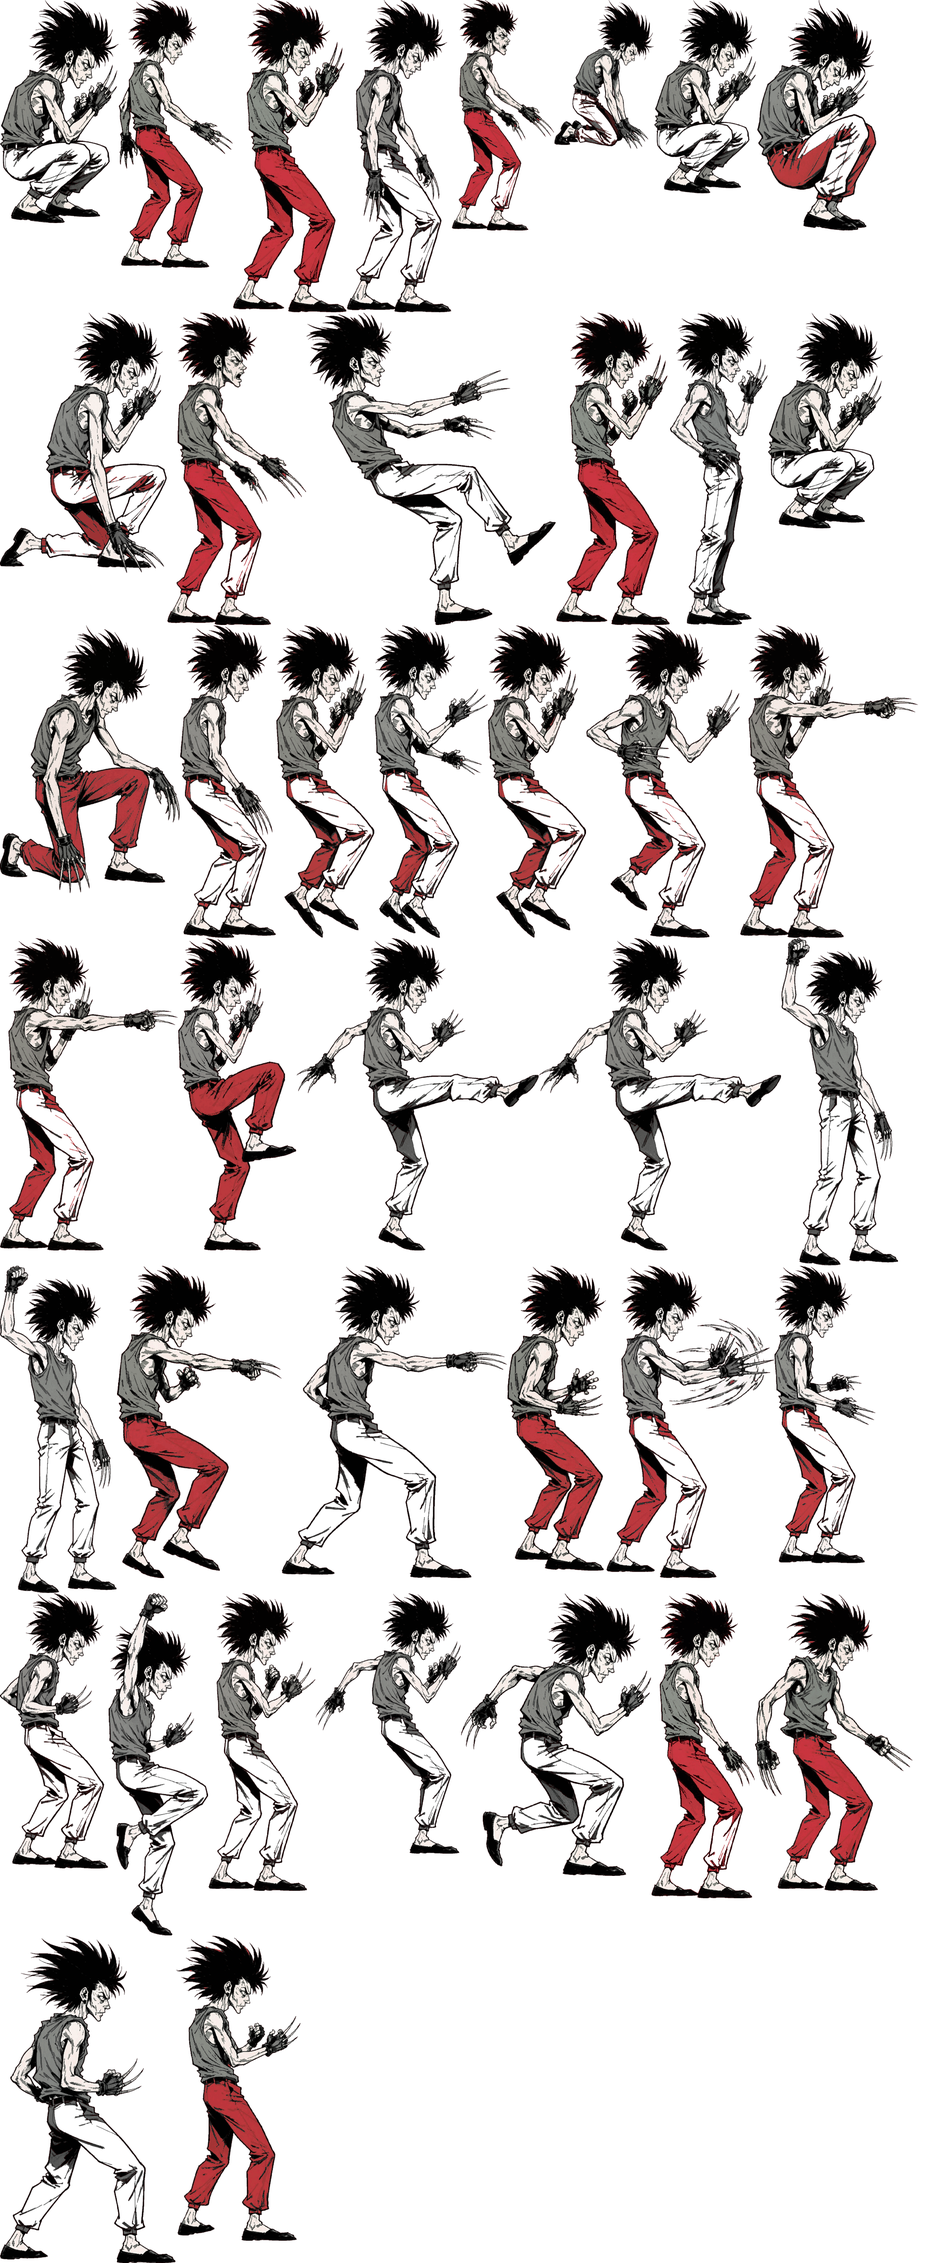
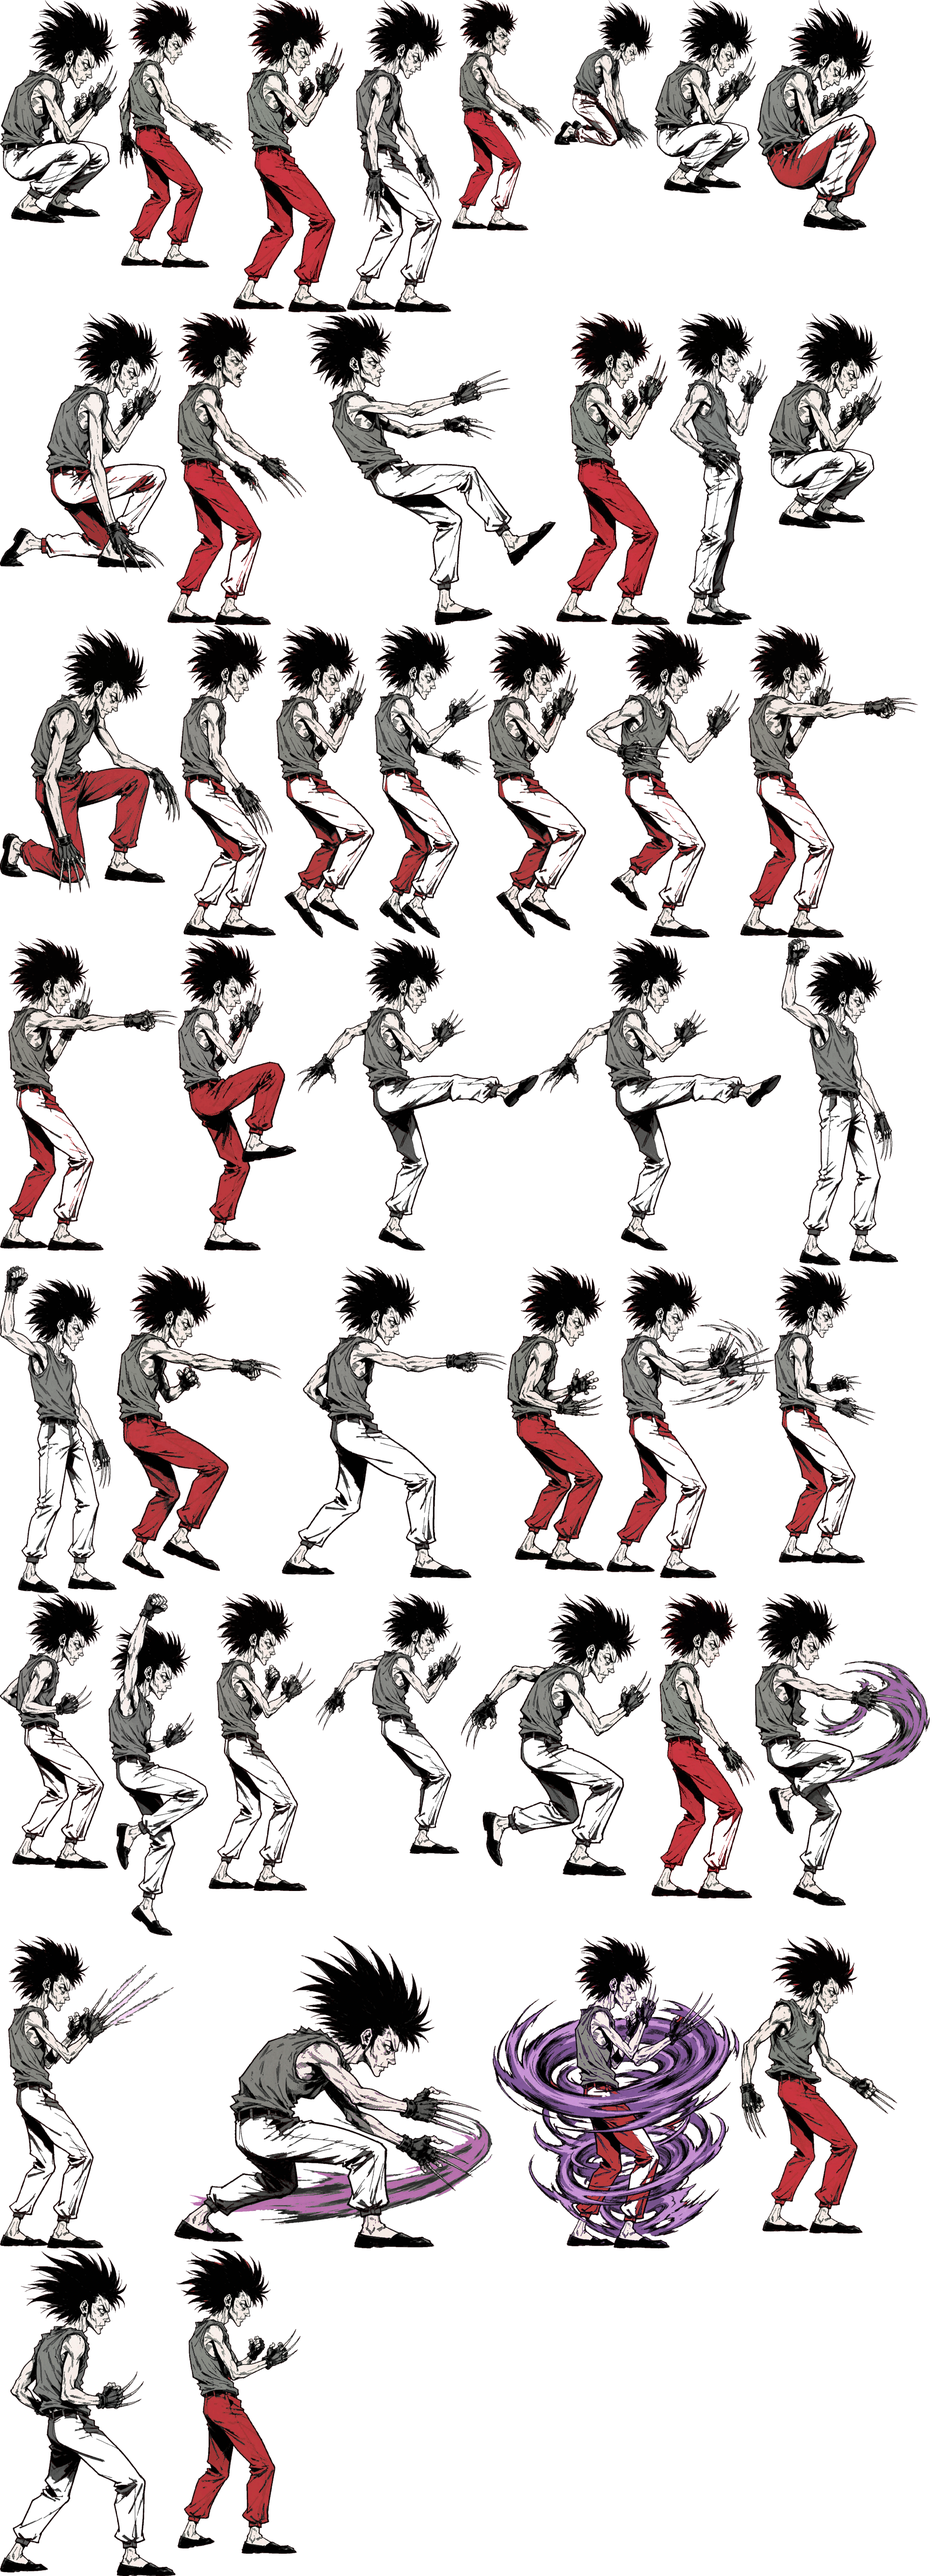
批次 20261027-0807 · [T267] 动作专属化 18/27：Kim + Choi 各 4 招
改了什么：
- gen-poses 加 8 条（Kim：青白弧线踢/缠气流飞踢/空中连踢残像/青白火焰状气劲；
  Choi：紫色旋风/三道紫光刃/贴地紫残影/紫色龙卷包裹）
- build-sheet 加 kimspecial1-3 + kimsuper、choispecial1-3 + choisuper，
  并更新 EXCLUSIVE_OWNER
- poses.ts 加 8 个兜底（key = anim 名）
- kim.ts / choi.ts 各改 5 处

踩到一个大小写坑：build-sheet 里写成 choiSpecial1（大写 S），数据里是 choispecial1
（小写 s）——两者必须完全一致，否则打包出来的动画名对不上 move.anim。已统一小写。

风格区分：Kim＝白道服、腿法为主、青白气流；Choi＝瘦小、爪击、紫色旋风。

怎么验证的：打包两个角色都检查了错误（grep -qi error），失败=0；art:check 通过；
npm run check 995 条全绿

diff --git a/src/data/chars/choi.ts b/src/data/chars/choi.ts
@@ -27,7 +27,7 @@ export const CHOI: CharDef = {
 
     // ---------------------------------------------------------------- 必杀技
     // 旋風斬：转着往前冲（多段）
-    '236A': mv('236A', '旋風斬', 'kickLight', 48, 'special', [
+    '236A': mv('236A', '旋風斬', 'choispecial1', 48, 'special', [
       hit('h1', { box: { x: 8, y: -60, w: 30, h: 30 }, frames: [8, 11], damage: 26, hitStun: 14, hitstop: 6, meterGain: 4 }),
       hit('h2', { box: { x: 8, y: -60, w: 30, h: 30 }, frames: [14, 17], damage: 24, hitStun: 14, hitstop: 6, meterGain: 4 }),
       hit('h3', { box: { x: 8, y: -62, w: 32, h: 32 }, frames: [20, 23], damage: 24, hitStun: 14, hitstop: 6, meterGain: 4 }),
@@ -43,7 +43,7 @@ export const CHOI: CharDef = {
     ], { input: { motion: '236', buttons: ['A'] }, travel: 82, travelFrames: 28 }),
 
     // 飛翔空裂斬：对空上冲（爪）
-    '623A': mv('623A', '飛翔空裂斬', 'kickLight', 40, 'special', [
+    '623A': mv('623A', '飛翔空裂斬', 'choispecial2', 40, 'special', [
       hit('h1', { box: { x: 4, y: -78, w: 26, h: 46 }, frames: [4, 8], damage: 28, hitStun: 16, hitstop: 6, meterGain: 5 }),
       hit('h2', {
         box: { x: 4, y: -84, w: 28, h: 56 },
@@ -57,7 +57,7 @@ export const CHOI: CharDef = {
     ], { input: { motion: '623', buttons: ['A'] }, invuln: [{ frames: [1, 5], kind: 'full' }] }),
 
     // 疾風斬：低空突进（下段）
-    '214A': mv('214A', '疾風斬', 'crouchKick', 38, 'special', [
+    '214A': mv('214A', '疾風斬', 'choispecial3', 38, 'special', [
       hit('h1', {
         box: { x: 10, y: -22, w: 32, h: 18 },
         frames: [10, 14],
@@ -73,7 +73,7 @@ export const CHOI: CharDef = {
     ], { input: { motion: '214', buttons: ['A'] }, travel: 72, travelFrames: 16 }),
 
     // ---------------------------------------------------------------- 超必杀
-    '236236A': mv('236236A', '真！超絶竜巻斬', 'special', 70, 'super', [
+    '236236A': mv('236236A', '真！超絶竜巻斬', 'choisuper', 70, 'super', [
       hit('h1', { box: { x: 8, y: -62, w: 32, h: 34 }, frames: [8, 11], damage: 28, hitStun: 15, hitstop: 6, meterGain: 0 }),
       hit('h2', { box: { x: 8, y: -62, w: 32, h: 34 }, frames: [15, 18], damage: 26, hitStun: 15, hitstop: 6, meterGain: 0 }),
       hit('h3', { box: { x: 8, y: -66, w: 34, h: 38 }, frames: [22, 25], damage: 26, hitStun: 15, hitstop: 6, meterGain: 0 }),
@@ -89,7 +89,7 @@ export const CHOI: CharDef = {
       }),
     ], { input: { motion: '236236', buttons: ['A'] }, meterCost: 50, travel: 66, travelFrames: 16 }),
 
-    '236236AC': mv('236236AC', '真！超絶竜巻斬 MAX', 'special', 82, 'super', [
+    '236236AC': mv('236236AC', '真！超絶竜巻斬 MAX', 'choisuper', 82, 'super', [
       hit('h1', { box: { x: 8, y: -62, w: 34, h: 36 }, frames: [6, 9], damage: 26, hitStun: 15, hitstop: 5, meterGain: 0 }),
       hit('h2', { box: { x: 8, y: -62, w: 34, h: 36 }, frames: [12, 15], damage: 24, hitStun: 15, hitstop: 5, meterGain: 0 }),
       hit('h3', { box: { x: 8, y: -66, w: 36, h: 40 }, frames: [18, 21], damage: 24, hitStun: 15, hitstop: 5, meterGain: 0 }),

diff --git a/src/data/chars/kim.ts b/src/data/chars/kim.ts
@@ -22,7 +22,7 @@ export const KIM: CharDef = {
 
     // ---------------------------------------------------------------- 必杀技
     // 半月斬：突进横踢
-    '236B': mv('236B', '半月斬', 'kickHeavy', 38, 'special', [
+    '236B': mv('236B', '半月斬', 'kimspecial1', 38, 'special', [
       hit('h1', {
         box: { x: 14, y: -64, w: 36, h: 20 },
         frames: [10, 14],
@@ -36,7 +36,7 @@ export const KIM: CharDef = {
     ], { input: { motion: '236', buttons: ['B'] }, travel: 66, travelFrames: 15 }),
 
     // 飛燕斬：跳起下劈（中段）
-    '214B': mv('214B', '飛燕斬', 'kickHeavy', 40, 'special', [
+    '214B': mv('214B', '飛燕斬', 'kimspecial2', 40, 'special', [
       hit('h1', {
         box: { x: 10, y: -66, w: 32, h: 26 },
         frames: [13, 17],
@@ -52,7 +52,7 @@ export const KIM: CharDef = {
     ], { input: { motion: '214', buttons: ['B'] } }),
 
     // 空連脚：对空连踢
-    '623B': mv('623B', '空連脚', 'kickHeavy', 42, 'special', [
+    '623B': mv('623B', '空連脚', 'kimspecial3', 42, 'special', [
       hit('h1', { box: { x: 6, y: -88, w: 28, h: 40 }, frames: [4, 8], damage: 30, hitStun: 16, hitstop: 6, meterGain: 5 }),
       hit('h2', { box: { x: 6, y: -92, w: 30, h: 50 }, frames: [10, 14], damage: 30, hitStun: 16, hitstop: 6, meterGain: 5 }),
       hit('h3', {
@@ -67,7 +67,7 @@ export const KIM: CharDef = {
     ], { input: { motion: '623', buttons: ['B'] }, invuln: [{ frames: [1, 5], kind: 'full' }] }),
 
     // ---------------------------------------------------------------- 超必杀
-    '236236B': mv('236236B', '鳳凰脚', 'special', 66, 'super', [
+    '236236B': mv('236236B', '鳳凰脚', 'kimsuper', 66, 'super', [
       hit('h1', { box: { x: 10, y: -72, w: 34, h: 30 }, frames: [8, 12], damage: 34, hitStun: 16, hitstop: 7, meterGain: 0 }),
       hit('h2', { box: { x: 10, y: -74, w: 36, h: 34 }, frames: [16, 20], damage: 32, hitStun: 16, hitstop: 7, meterGain: 0 }),
       hit('h3', { box: { x: 10, y: -76, w: 36, h: 40 }, frames: [24, 28], damage: 32, hitStun: 16, hitstop: 7, meterGain: 0 }),
@@ -83,7 +83,7 @@ export const KIM: CharDef = {
       }),
     ], { input: { motion: '236236', buttons: ['B'] }, meterCost: 50, travel: 50, travelFrames: 12 }),
 
-    '236236AC': mv('236236AC', '鳳凰脚 MAX', 'special', 78, 'super', [
+    '236236AC': mv('236236AC', '鳳凰脚 MAX', 'kimsuper', 78, 'super', [
       hit('h1', { box: { x: 10, y: -72, w: 36, h: 32 }, frames: [6, 9], damage: 30, hitStun: 16, hitstop: 6, meterGain: 0 }),
       hit('h2', { box: { x: 10, y: -74, w: 36, h: 36 }, frames: [13, 16], damage: 28, hitStun: 16, hitstop: 6, meterGain: 0 }),
       hit('h3', { box: { x: 10, y: -76, w: 38, h: 40 }, frames: [20, 23], damage: 28, hitStun: 16, hitstop: 6, meterGain: 0 }),

diff --git a/src/render/poses.ts b/src/render/poses.ts
@@ -628,6 +628,15 @@ export const POSE_LIBRARY: Record<string, Pose> = {
   chinspecial2: { frameDuration: 1, loop: false, exclusive: 'chin', frames: [f({ head: p(-6, -50), neck: p(-6, -44), hip: p(-4, -26), legFront: [p(14, -14), p(24, -6)], armBack: [p(-12, -34), p(-18, -28)] })] },
   chinspecial3: { frameDuration: 1, loop: false, exclusive: 'chin', frames: [f({ head: p(5, -58), neck: p(4, -50), hip: p(-2, -30), armFront: [p(12, -44), p(18, -36)], armBack: [p(-10, -46), p(-14, -40)] })] },
   chinsuper: { frameDuration: 1, loop: false, exclusive: 'chin', frames: [f({ head: p(3, -58), neck: p(3, -50), hip: p(0, -30), armFront: [p(18, -52), p(30, -48)], armBack: [p(-16, -52), p(-28, -48)] })] },
+  // Kim / Choi 专属必杀的兜底（key 与 anim 名一致）
+  kimspecial1: { frameDuration: 1, loop: false, exclusive: 'kim', frames: [f({ head: p(2, -66), neck: p(1, -56), hip: p(0, -36), legFront: [p(16, -62), p(22, -84)], legBack: [p(-6, -22), p(-6, -1)] })] },
+  kimspecial2: { frameDuration: 1, loop: false, exclusive: 'kim', frames: [f({ head: p(1, -74), neck: p(1, -64), hip: p(0, -41), legFront: [p(14, -58), p(18, -80)], legBack: [p(-8, -24), p(-8, -2)] })] },
+  kimspecial3: { frameDuration: 1, loop: false, exclusive: 'kim', frames: [f({ head: p(2, -70), neck: p(2, -60), hip: p(0, -40), legFront: [p(18, -50), p(28, -44)], legBack: [p(-10, -40), p(-14, -28)] })] },
+  kimsuper: { frameDuration: 1, loop: false, exclusive: 'kim', frames: [f({ head: p(3, -70), neck: p(2, -60), hip: p(0, -40), legFront: [p(22, -52), p(32, -46)], legBack: [p(-8, -26), p(-10, -8)] })] },
+  choispecial1: { frameDuration: 1, loop: false, exclusive: 'choi', frames: [f({ head: p(3, -64), neck: p(3, -54), hip: p(0, -34), armFront: [p(16, -54), p(26, -50)], armBack: [p(-12, -48), p(-20, -42)] })] },
+  choispecial2: { frameDuration: 1, loop: false, exclusive: 'choi', frames: [f({ head: p(1, -70), neck: p(1, -60), hip: p(0, -38), armFront: [p(14, -54), p(16, -72)], armBack: [p(-10, -50), p(-14, -42)] })] },
+  choispecial3: { frameDuration: 1, loop: false, exclusive: 'choi', frames: [f({ head: p(6, -52), neck: p(6, -44), hip: p(1, -26), armFront: [p(16, -38), p(28, -32)], armBack: [p(-10, -38), p(-18, -32)] })] },
+  choisuper: { frameDuration: 1, loop: false, exclusive: 'choi', frames: [f({ head: p(2, -62), neck: p(2, -52), hip: p(0, -32), armFront: [p(18, -52), p(30, -46)], armBack: [p(-16, -52), p(-28, -46)] })] },
   /** 升龙系：整个人向上冲，手臂上举 */
   specialUppercut: {
     frameDuration: 1,

diff --git a/docs/MOVE-PER-CHAR.md b/docs/MOVE-PER-CHAR.md
@@ -77,8 +77,8 @@ mv('236A', '百拾四式・荒咬', 'punchLight', 26, 'special', [...])
 | 13 | アテナ athena | サイコボール / サイコソード / フェニックスアロー / シャイニングクリスタルビット | **done** |
 | 14 | 椎拳崇 kensou | 超球弾 / 龍顎砕 / 龍連牙 / 神龍撃 | **done** |
 | 15 | 鎮元斎 chin | 回転的空突拳 / 柳燐蓬萊 / 酔歩 / 大酔直全方位 | **done** |
-| 16 | キム kim | 半月斬 / 飛燕斬 / 昇天脚 / 鳳凰脚 | - |
-| 17 | チョイ choi | 二撃 / 竜巻撃 / 空中二撃 / 鳳凰脚 | - |
+| 16 | キム kim | 半月斬 / 飛燕斬 / 空連脚 / 鳳凰脚 | **done** |
+| 17 | チョイ choi | 旋風斬 / 飛翔空裂斬 / 疾風斬 / 真！超絶竜巻斬 | **done** |
 | 18 | チン chang | 鉄球大回転 / 鉄球大暴走 / 鉄球大圧殺 / 鉄球大粉砕 | - |
 | 19 | ビリー billy | 雀落とし / 三節棍中段打ち / 旋風棍 / 超火炎旋風棍 | - |
 | 20 | 影二 eiji | 霞斬り / 影すくい / 骸縫い / 斬鉄 | - |
@@ -90,7 +90,7 @@ mv('236A', '百拾四式・荒咬', 'punchLight', 26, 'special', [...])
 | 26 | 暴走庵 orochi_iori | 百八式・闇払い / 百式・鬼焼き / 屑風 / 禁千弐百拾八式・八稚女 | - |
 | 27 | 覚醒レオナ orochi_leona | グランドセイバー / ムーンストライカー / Xキャリバー / リボルブブラスター | - |
 
-**完成度：16 / 27**
+**完成度：18 / 27**
 
 ## 六、已完成记录
 
@@ -312,6 +312,28 @@ benispecial1: {
 | 柳燐蓬萊（214B） | `chinspecial2` | 后仰扫腿、腿拖酒气 |
 | 酔歩（623A） | `chinspecial3` | **摇摇晃晃地踏出**、重心不稳 |
 | 大酔直全方位（超必杀） | `chinsuper` | 旋身、**紫红酒气全身喷出** |
+
+### 17. Kim（done）
+
+跆拳道、白道服、青白色腿法气：
+
+| 招式 | 专属动画 | 出图效果 |
+|---|---|---|
+| 半月斬（236B） | `kimspecial1` | 半圆踢、**青白弧线气劲** |
+| 飛燕斬（214B） | `kimspecial2` | 跃起踢、腿部缠气流 |
+| 空連脚（623B） | `kimspecial3` | 空中连踢、腿影残像 |
+| 鳳凰脚（超必杀） | `kimsuper` | 连续踢、**青白火焰状气劲** |
+
+### 18. Choi（done）
+
+极瘦小、爪击、紫色气：
+
+| 招式 | 专属动画 | 出图效果 |
+|---|---|---|
+| 旋風斬（236A） | `choispecial1` | 旋身挥爪、**紫色旋风** |
+| 飛翔空裂斬（623A） | `choispecial2` | 跃起抓、**三道紫色光刃** |
+| 疾風斬（214A） | `choispecial3` | 贴地低冲、紫色残影 |
+| 真！超絶竜巻斬（超必杀） | `choisuper` | **全身被紫色龙卷包裹** |
 
 ## 七、执行约定
 

diff --git a/.continue/doing/59bce7.md b/.continue/doing/59bce7.md
@@ -1,0 +1,14 @@
+# 队列 · 会话 59bce766a368447cf9cf15c7e36322c83
+
+> 状态：执行中
+> 创建：2026-10-27
+> 批次：20261027-0807
+
+> 本批目标：动作专属化第 17、18 个角色（Kim、Choi）。
+
+- [x] [T267] Kim + Choi 各 4 个必杀专属动作（18/27）→ 出图 + 数据 + 打包验证
+  - 做了什么：①`gen-poses.mjs` 加 8 条（Kim：青白弧线踢/缠气流飞踢/空中连踢残像/青白火焰状气劲；Choi：紫色旋风/三道紫光刃/贴地紫残影/紫色龙卷包裹）；②`build-sheet.mjs` 加 `kimspecial1-3`+`kimsuper`、`choispecial1-3`+`choisuper`，并更新 `EXCLUSIVE_OWNER`；③`poses.ts` 加 8 个兜底（key = anim 名）；④`kim.ts`/`choi.ts` 各改 5 处
+  - **踩到一个大小写坑**：`build-sheet` 里写成 `choiSpecial1`（大写 S），数据里是 `choispecial1`（小写 s）——两者必须完全一致，否则打包出来的动画名对不上 `move.anim`。已统一成小写
+  - **风格区分**：Kim＝白道服、腿法为主、青白气流；Choi＝瘦小、爪击、紫色旋风
+  - 验证：打包两个角色都检查了错误（`grep -qi error`），失败=0；`art:check` 通过；`npm run check` **995 条全绿**
+  - 批次：20261027-0807

diff --git a/.continue/TASKS.md b/.continue/TASKS.md
@@ -285,3 +285,4 @@
 - [x] T264 角色动作专属化 12/27：Yuri（粉白气）+ Leona（蓝白光刃）各 4 招
 - [x] T265 角色动作专属化 14/27：Ralf（橙红冲击）+ Clark（纯投技）各 4 招
 - [x] T266 角色动作专属化 16/27：椎拳崇（青绿气+巨龙）+ 鎮元斎（醉拳酒气）各 4 招
+- [x] T267 角色动作专属化 18/27：Kim（青白腿法）+ Choi（紫色龙卷）各 4 招
